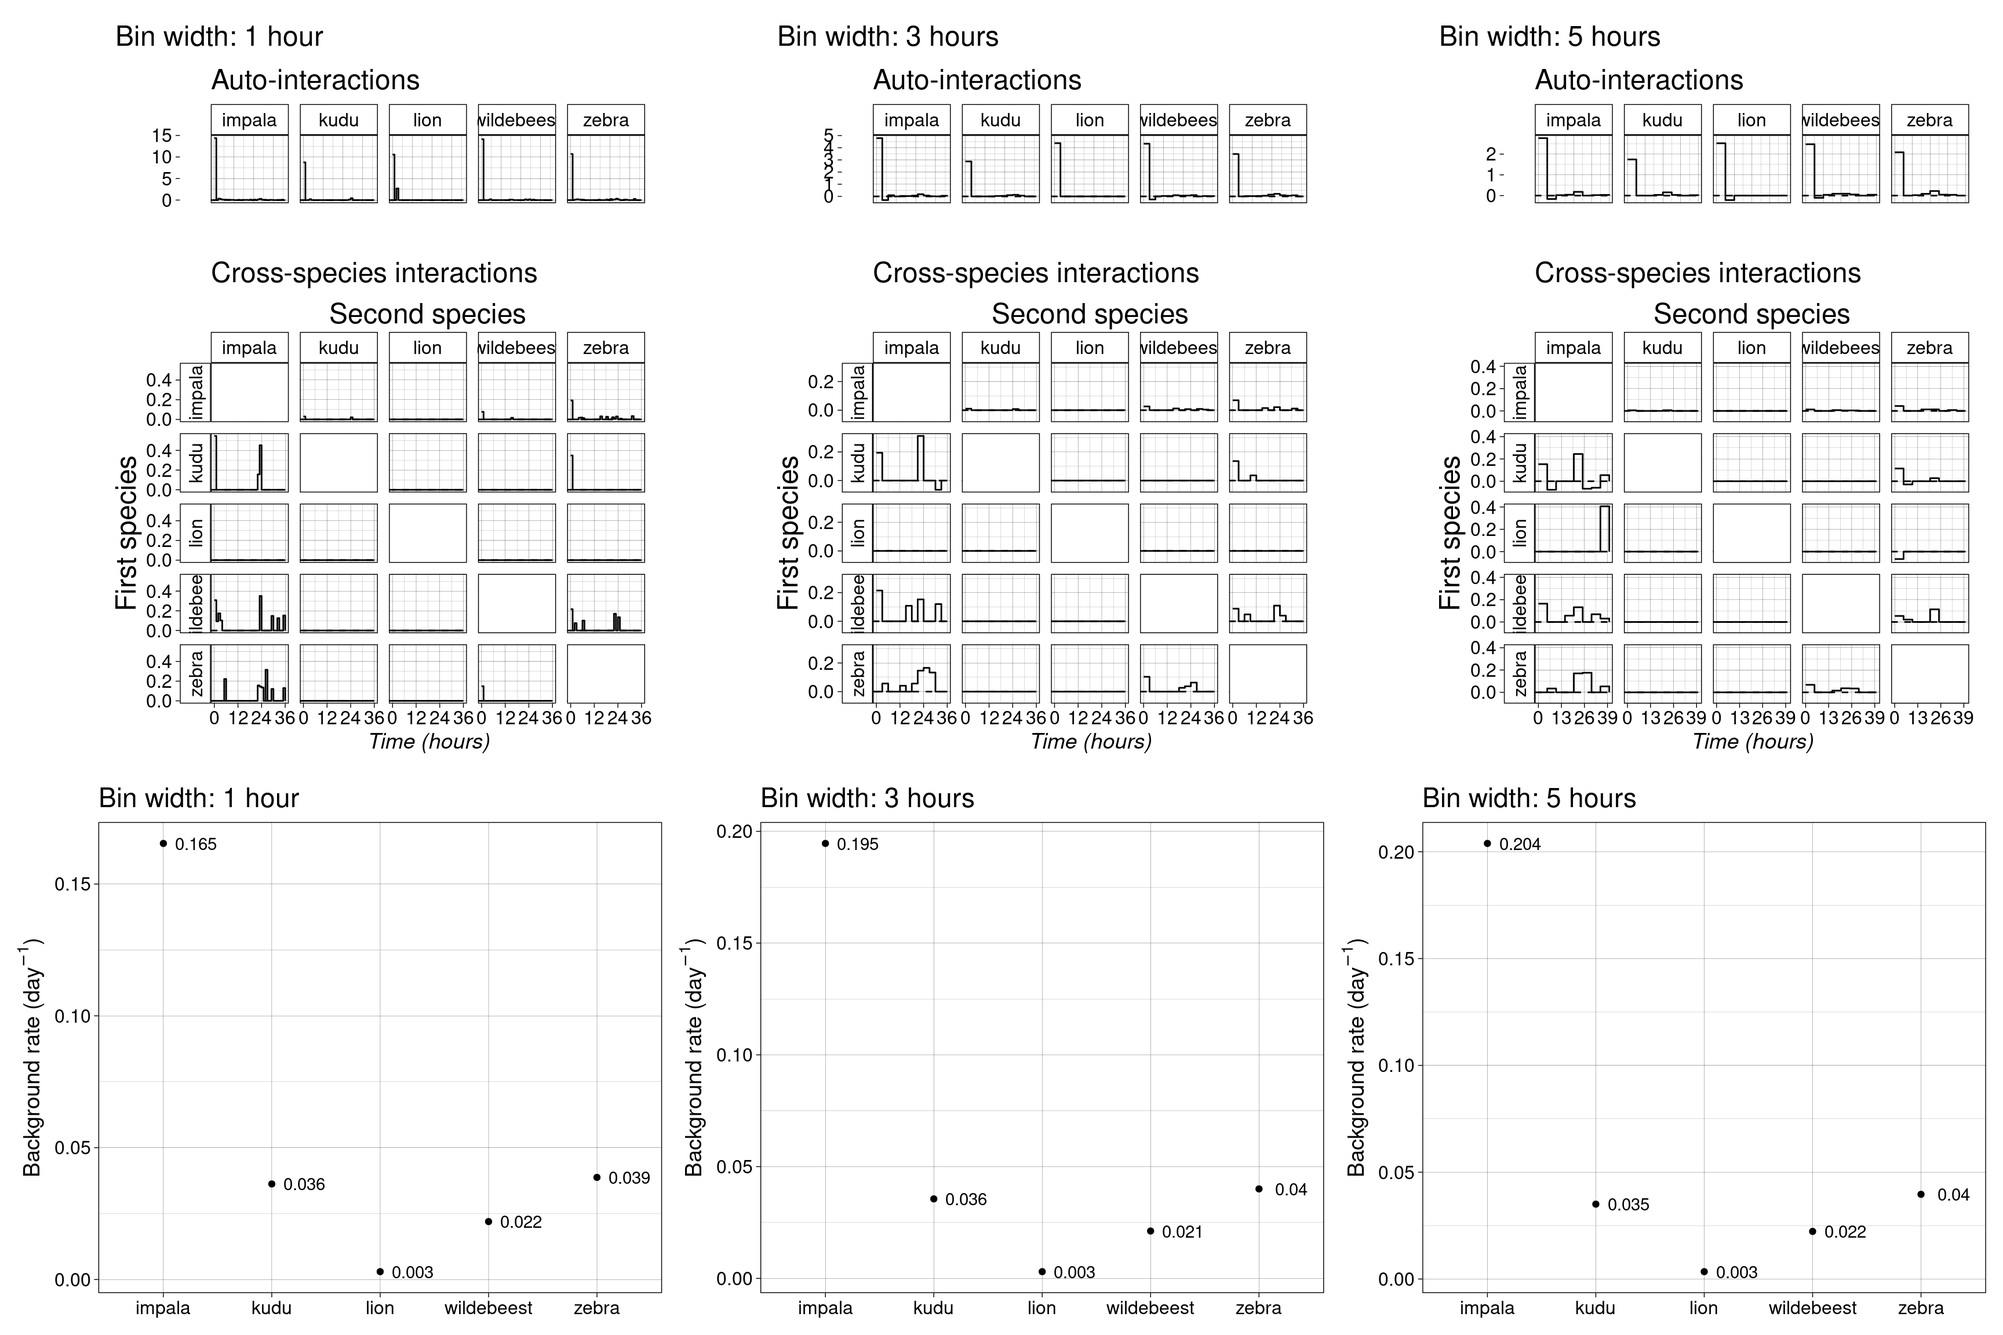
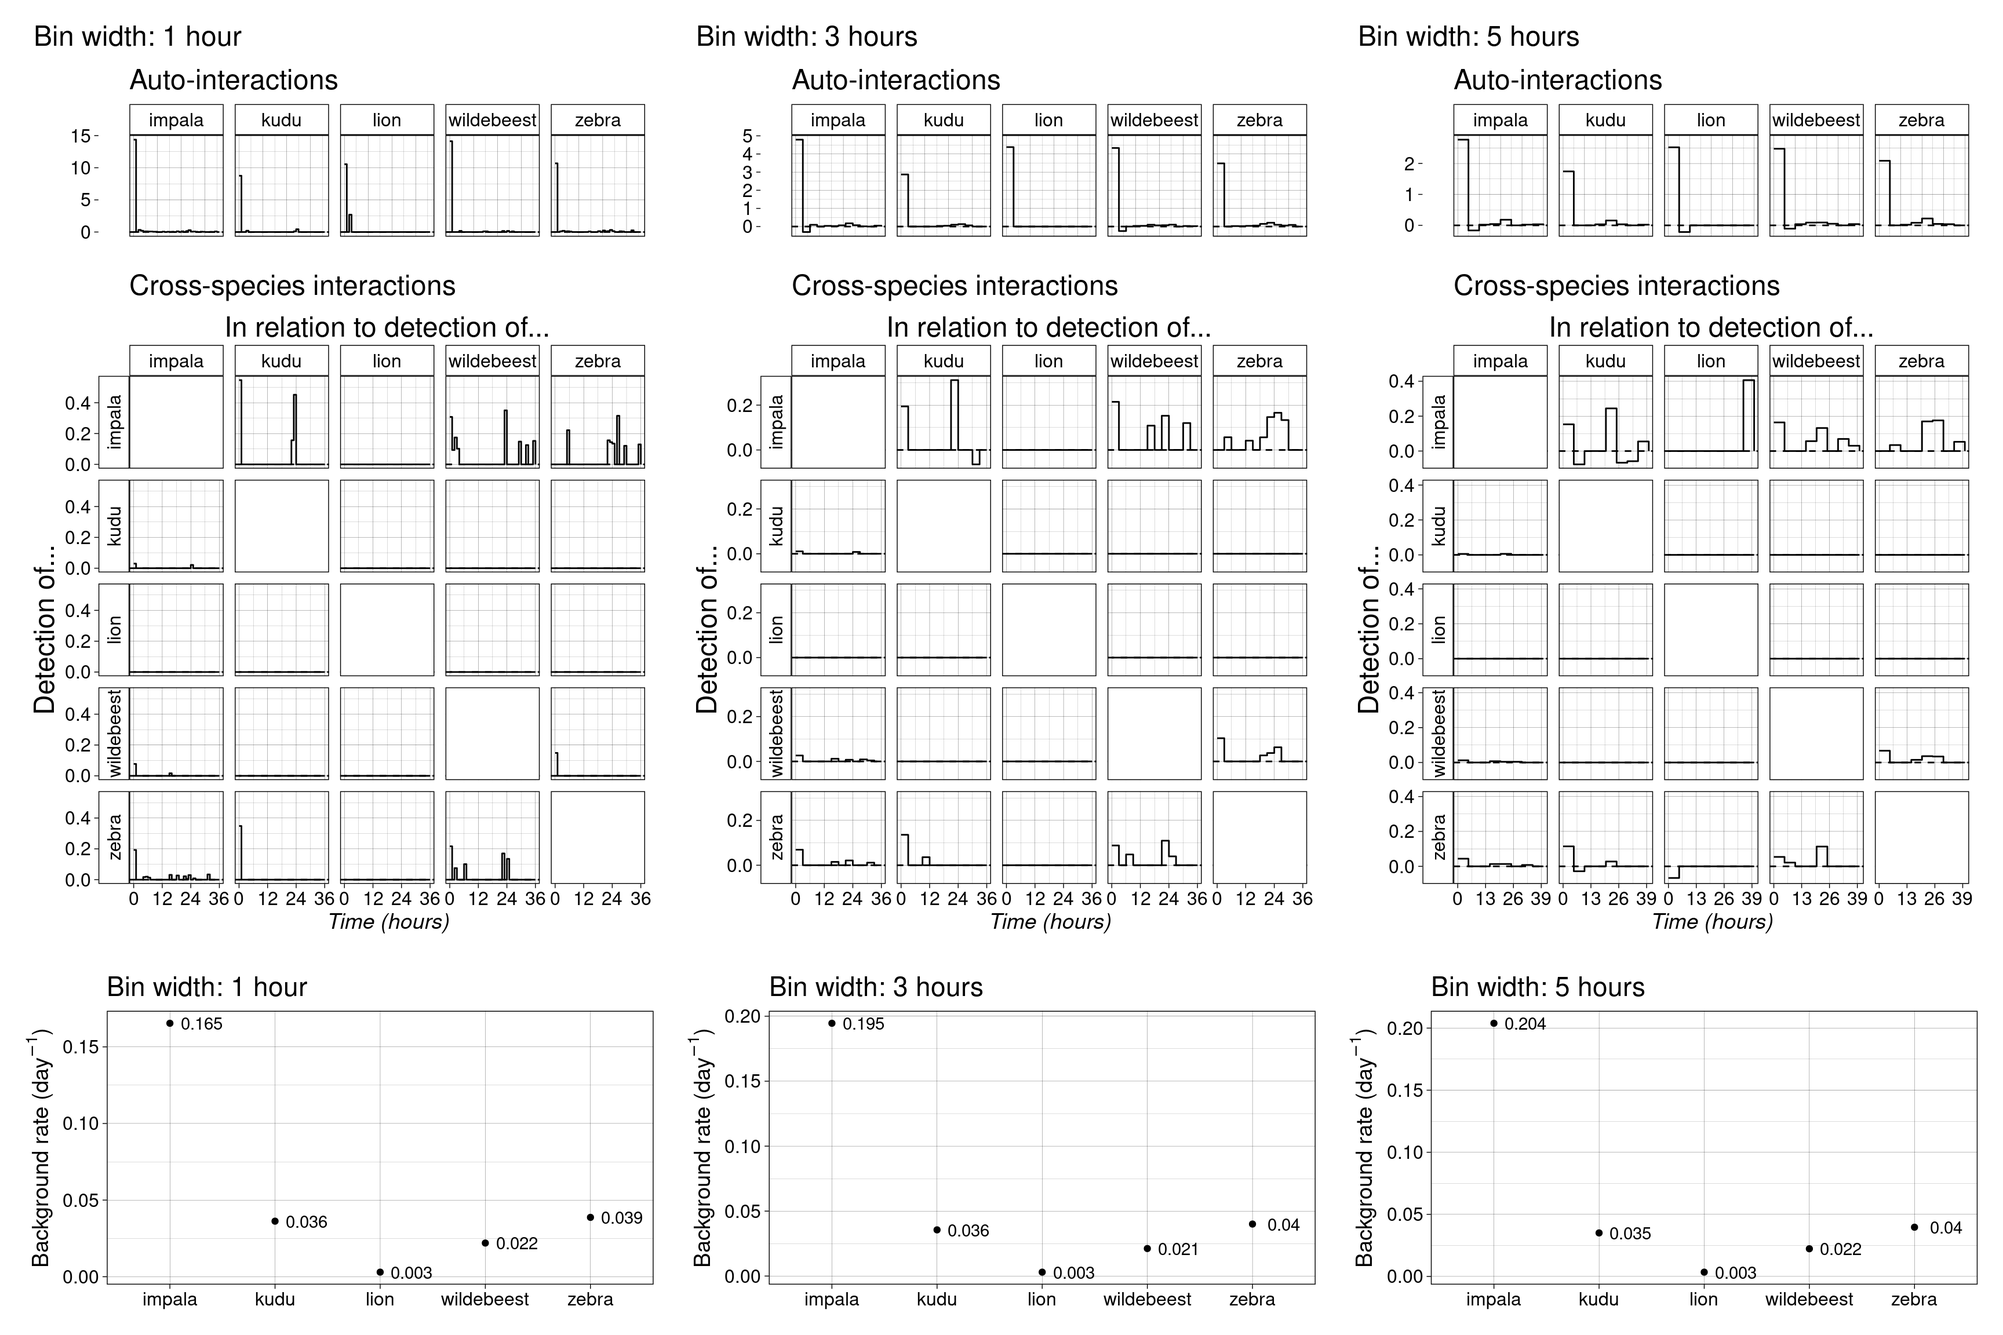
Better figures for appendix bins width

diff --git a/analyses/07_bins_width/bins_width.html b/analyses/07_bins_width/bins_width.html
@@ -132,7 +132,8 @@ code span.wa { color: #60a0b0; font-weight: bold; font-style: italic; } /* Warni
 <span id="cb1-3"><a href="#cb1-3" aria-hidden="true" tabindex="-1"></a></span>
 <span id="cb1-4"><a href="#cb1-4" aria-hidden="true" tabindex="-1"></a>packages <span class="ot">&lt;-</span> <span class="fu">c</span>(<span class="st">"here"</span>, <span class="st">"lubridate"</span>, <span class="st">"UnitEvents"</span>,</span>
 <span id="cb1-5"><a href="#cb1-5" aria-hidden="true" tabindex="-1"></a>              <span class="st">"ggplot2"</span>, <span class="st">"patchwork"</span>, <span class="st">"dplyr"</span>)</span>
-<span id="cb1-6"><a href="#cb1-6" aria-hidden="true" tabindex="-1"></a>base<span class="sc">::</span><span class="fu">lapply</span>(packages, require)</span></code><button title="Copy to Clipboard" class="code-copy-button"><i class="bi"></i></button></pre></div>
+<span id="cb1-6"><a href="#cb1-6" aria-hidden="true" tabindex="-1"></a>base<span class="sc">::</span><span class="fu">lapply</span>(packages, require)</span>
+<span id="cb1-7"><a href="#cb1-7" aria-hidden="true" tabindex="-1"></a>here<span class="sc">::</span><span class="fu">i_am</span>(<span class="st">"analyses/07_bins_width/bins_width.qmd"</span>)</span></code><button title="Copy to Clipboard" class="code-copy-button"><i class="bi"></i></button></pre></div>
 </div>
 </section>
 <section id="parameters" class="level2">
@@ -229,14 +230,15 @@ code span.wa { color: #60a0b0; font-weight: bold; font-style: italic; } /* Warni
 <span id="cb6-12"><a href="#cb6-12" aria-hidden="true" tabindex="-1"></a>                         <span class="at">textsize =</span> <span class="dv">12</span>,</span>
 <span id="cb6-13"><a href="#cb6-13" aria-hidden="true" tabindex="-1"></a>                         <span class="at">timestep =</span> <span class="fu">floor</span>((<span class="fu">max</span>(mod<span class="sc">$</span>time)<span class="sc">*</span><span class="dv">24</span>)<span class="sc">/</span><span class="dv">3</span>),</span>
 <span id="cb6-14"><a href="#cb6-14" aria-hidden="true" tabindex="-1"></a>                         <span class="at">ystep =</span> <span class="fl">0.2</span>,</span>
-<span id="cb6-15"><a href="#cb6-15" aria-hidden="true" tabindex="-1"></a>                         <span class="at">separate_self =</span> <span class="cn">TRUE</span>,</span>
-<span id="cb6-16"><a href="#cb6-16" aria-hidden="true" tabindex="-1"></a>                         <span class="at">title =</span> <span class="fu">paste</span>(<span class="st">"Bin width:"</span>,</span>
-<span id="cb6-17"><a href="#cb6-17" aria-hidden="true" tabindex="-1"></a>                                   bin,</span>
-<span id="cb6-18"><a href="#cb6-18" aria-hidden="true" tabindex="-1"></a>                                   <span class="fu">ifelse</span>(bin <span class="sc">==</span> <span class="st">"1"</span>,</span>
-<span id="cb6-19"><a href="#cb6-19" aria-hidden="true" tabindex="-1"></a>                                          <span class="st">"hour"</span>, <span class="st">"hours"</span>)))</span>
-<span id="cb6-20"><a href="#cb6-20" aria-hidden="true" tabindex="-1"></a>  </span>
-<span id="cb6-21"><a href="#cb6-21" aria-hidden="true" tabindex="-1"></a>  glist_inter[[i]] <span class="ot">&lt;-</span> <span class="fu">wrap_elements</span>(g)</span>
-<span id="cb6-22"><a href="#cb6-22" aria-hidden="true" tabindex="-1"></a>}</span></code><button title="Copy to Clipboard" class="code-copy-button"><i class="bi"></i></button></pre></div>
+<span id="cb6-15"><a href="#cb6-15" aria-hidden="true" tabindex="-1"></a>                         <span class="at">h =</span> <span class="dv">0</span>,</span>
+<span id="cb6-16"><a href="#cb6-16" aria-hidden="true" tabindex="-1"></a>                         <span class="at">separate_self =</span> <span class="cn">TRUE</span>,</span>
+<span id="cb6-17"><a href="#cb6-17" aria-hidden="true" tabindex="-1"></a>                         <span class="at">title =</span> <span class="fu">paste</span>(<span class="st">"Bin width:"</span>,</span>
+<span id="cb6-18"><a href="#cb6-18" aria-hidden="true" tabindex="-1"></a>                                   bin,</span>
+<span id="cb6-19"><a href="#cb6-19" aria-hidden="true" tabindex="-1"></a>                                   <span class="fu">ifelse</span>(bin <span class="sc">==</span> <span class="st">"1"</span>,</span>
+<span id="cb6-20"><a href="#cb6-20" aria-hidden="true" tabindex="-1"></a>                                          <span class="st">"hour"</span>, <span class="st">"hours"</span>)))</span>
+<span id="cb6-21"><a href="#cb6-21" aria-hidden="true" tabindex="-1"></a>  </span>
+<span id="cb6-22"><a href="#cb6-22" aria-hidden="true" tabindex="-1"></a>  glist_inter[[i]] <span class="ot">&lt;-</span> <span class="fu">wrap_elements</span>(g)</span>
+<span id="cb6-23"><a href="#cb6-23" aria-hidden="true" tabindex="-1"></a>}</span></code><button title="Copy to Clipboard" class="code-copy-button"><i class="bi"></i></button></pre></div>
 </div>
 <div class="cell">
 <div class="sourceCode cell-code" id="cb7"><pre class="sourceCode r code-with-copy"><code class="sourceCode r"><span id="cb7-1"><a href="#cb7-1" aria-hidden="true" tabindex="-1"></a><span class="co"># --- Initialize glist_bg</span></span>
@@ -256,7 +258,7 @@ code span.wa { color: #60a0b0; font-weight: bold; font-style: italic; } /* Warni
 <span id="cb7-15"><a href="#cb7-15" aria-hidden="true" tabindex="-1"></a>                                   <span class="fu">ifelse</span>(bin <span class="sc">==</span> <span class="st">"1"</span>,</span>
 <span id="cb7-16"><a href="#cb7-16" aria-hidden="true" tabindex="-1"></a>                                          <span class="st">"hour"</span>, <span class="st">"hours"</span>)))</span>
 <span id="cb7-17"><a href="#cb7-17" aria-hidden="true" tabindex="-1"></a>  </span>
-<span id="cb7-18"><a href="#cb7-18" aria-hidden="true" tabindex="-1"></a>  glist_bg[[i]] <span class="ot">&lt;-</span> g</span>
+<span id="cb7-18"><a href="#cb7-18" aria-hidden="true" tabindex="-1"></a>  glist_bg[[i]] <span class="ot">&lt;-</span> <span class="fu">wrap_elements</span>(g)</span>
 <span id="cb7-19"><a href="#cb7-19" aria-hidden="true" tabindex="-1"></a></span>
 <span id="cb7-20"><a href="#cb7-20" aria-hidden="true" tabindex="-1"></a>}</span></code><button title="Copy to Clipboard" class="code-copy-button"><i class="bi"></i></button></pre></div>
 </div>
@@ -282,39 +284,49 @@ code span.wa { color: #60a0b0; font-weight: bold; font-style: italic; } /* Warni
 <span id="cb8-2"><a href="#cb8-2" aria-hidden="true" tabindex="-1"></a><span class="fu">wrap_plots</span>(<span class="fu">c</span>(glist_inter[smaller_names],</span>
 <span id="cb8-3"><a href="#cb8-3" aria-hidden="true" tabindex="-1"></a>             glist_bg[smaller_names]), </span>
 <span id="cb8-4"><a href="#cb8-4" aria-hidden="true" tabindex="-1"></a>           <span class="at">nrow =</span> <span class="dv">2</span>, <span class="at">byrow =</span> <span class="cn">TRUE</span>,</span>
-<span id="cb8-5"><a href="#cb8-5" aria-hidden="true" tabindex="-1"></a>           <span class="at">heights =</span> <span class="fu">c</span>(<span class="dv">8</span>, <span class="dv">5</span>))</span></code><button title="Copy to Clipboard" class="code-copy-button"><i class="bi"></i></button></pre></div>
+<span id="cb8-5"><a href="#cb8-5" aria-hidden="true" tabindex="-1"></a>           <span class="at">heights =</span> <span class="fu">c</span>(<span class="dv">8</span>, <span class="dv">3</span>))</span></code><button title="Copy to Clipboard" class="code-copy-button"><i class="bi"></i></button></pre></div>
 <div class="cell-output-display">
 <p><img src="bins_width_files/figure-html/unnamed-chunk-3-1.png" class="img-fluid" width="1728"></p>
 </div>
+<div class="sourceCode cell-code" id="cb9"><pre class="sourceCode r code-with-copy"><code class="sourceCode r"><span id="cb9-1"><a href="#cb9-1" aria-hidden="true" tabindex="-1"></a><span class="co"># Export plot</span></span>
+<span id="cb9-2"><a href="#cb9-2" aria-hidden="true" tabindex="-1"></a><span class="fu">ggsave</span>(<span class="fu">file.path</span>(figures_path, <span class="st">"smaller_bins.jpeg"</span>),</span>
+<span id="cb9-3"><a href="#cb9-3" aria-hidden="true" tabindex="-1"></a>       <span class="at">bg =</span> <span class="st">"white"</span>,</span>
+<span id="cb9-4"><a href="#cb9-4" aria-hidden="true" tabindex="-1"></a>       <span class="at">width =</span> <span class="dv">22</span>, <span class="at">height =</span> <span class="dv">13</span>,</span>
+<span id="cb9-5"><a href="#cb9-5" aria-hidden="true" tabindex="-1"></a>       <span class="at">dpi =</span> <span class="dv">300</span>)</span></code><button title="Copy to Clipboard" class="code-copy-button"><i class="bi"></i></button></pre></div>
 </div>
 <p>The inferred interactions for the 3 tested bin widths above are pretty similar. Moreover, all nonzero interactions are the same as in the 6-hours bins version. However, some interactions present in the 6-hours bins version are missed, possibly due to lower power. The inferred background rates have similar numerical values than those inferred with 6 hours bins, and they are pretty stable except for impala. However, their relative strength is the same.</p>
 <p>Below are the values for bins bigger than 6 hours:</p>
 <div class="cell">
-<div class="sourceCode cell-code" id="cb9"><pre class="sourceCode r code-with-copy"><code class="sourceCode r"><span id="cb9-1"><a href="#cb9-1" aria-hidden="true" tabindex="-1"></a>bigger_names <span class="ot">&lt;-</span> <span class="fu">as.character</span>(bigger)</span>
-<span id="cb9-2"><a href="#cb9-2" aria-hidden="true" tabindex="-1"></a><span class="fu">wrap_plots</span>(<span class="fu">c</span>(glist_inter[bigger_names],</span>
-<span id="cb9-3"><a href="#cb9-3" aria-hidden="true" tabindex="-1"></a>             glist_bg[bigger_names]), </span>
-<span id="cb9-4"><a href="#cb9-4" aria-hidden="true" tabindex="-1"></a>           <span class="at">nrow =</span> <span class="dv">2</span>, <span class="at">byrow =</span> <span class="cn">TRUE</span>,</span>
-<span id="cb9-5"><a href="#cb9-5" aria-hidden="true" tabindex="-1"></a>           <span class="at">heights =</span> <span class="fu">c</span>(<span class="dv">8</span>, <span class="dv">5</span>))</span></code><button title="Copy to Clipboard" class="code-copy-button"><i class="bi"></i></button></pre></div>
+<div class="sourceCode cell-code" id="cb10"><pre class="sourceCode r code-with-copy"><code class="sourceCode r"><span id="cb10-1"><a href="#cb10-1" aria-hidden="true" tabindex="-1"></a>bigger_names <span class="ot">&lt;-</span> <span class="fu">as.character</span>(bigger)</span>
+<span id="cb10-2"><a href="#cb10-2" aria-hidden="true" tabindex="-1"></a><span class="fu">wrap_plots</span>(<span class="fu">c</span>(glist_inter[bigger_names],</span>
+<span id="cb10-3"><a href="#cb10-3" aria-hidden="true" tabindex="-1"></a>             glist_bg[bigger_names]), </span>
+<span id="cb10-4"><a href="#cb10-4" aria-hidden="true" tabindex="-1"></a>           <span class="at">nrow =</span> <span class="dv">2</span>, <span class="at">byrow =</span> <span class="cn">TRUE</span>,</span>
+<span id="cb10-5"><a href="#cb10-5" aria-hidden="true" tabindex="-1"></a>           <span class="at">heights =</span> <span class="fu">c</span>(<span class="dv">8</span>, <span class="dv">3</span>))</span></code><button title="Copy to Clipboard" class="code-copy-button"><i class="bi"></i></button></pre></div>
 <div class="cell-output-display">
 <p><img src="bins_width_files/figure-html/unnamed-chunk-4-1.png" class="img-fluid" width="1728"></p>
 </div>
+<div class="sourceCode cell-code" id="cb11"><pre class="sourceCode r code-with-copy"><code class="sourceCode r"><span id="cb11-1"><a href="#cb11-1" aria-hidden="true" tabindex="-1"></a><span class="co"># Export plot</span></span>
+<span id="cb11-2"><a href="#cb11-2" aria-hidden="true" tabindex="-1"></a><span class="fu">ggsave</span>(<span class="fu">file.path</span>(figures_path, <span class="st">"bigger_bins.jpeg"</span>),</span>
+<span id="cb11-3"><a href="#cb11-3" aria-hidden="true" tabindex="-1"></a>       <span class="at">bg =</span> <span class="st">"white"</span>,</span>
+<span id="cb11-4"><a href="#cb11-4" aria-hidden="true" tabindex="-1"></a>       <span class="at">width =</span> <span class="dv">22</span>, <span class="at">height =</span> <span class="dv">13</span>,</span>
+<span id="cb11-5"><a href="#cb11-5" aria-hidden="true" tabindex="-1"></a>       <span class="at">dpi =</span> <span class="dv">300</span>)</span></code><button title="Copy to Clipboard" class="code-copy-button"><i class="bi"></i></button></pre></div>
 </div>
 <p>Again, the inferred interactions above are pretty similar for the different bin widths. And all nonzero interactions are the same as in the 6-hours bins version, except an attraction of impala by lion that appears after 36 hours with 7 and 11 hours bins. No interactions that appeared in the 6 hours inference are missed. The inferred background rates are similar to those inferred with 6 hours bins.</p>
 <p>Below are the values for bins close to 6 hours:</p>
 <div class="cell">
-<div class="sourceCode cell-code" id="cb10"><pre class="sourceCode r code-with-copy"><code class="sourceCode r"><span id="cb10-1"><a href="#cb10-1" aria-hidden="true" tabindex="-1"></a>close_names <span class="ot">&lt;-</span> <span class="fu">as.character</span>(close)</span>
-<span id="cb10-2"><a href="#cb10-2" aria-hidden="true" tabindex="-1"></a><span class="fu">wrap_plots</span>(<span class="fu">c</span>(glist_inter[close_names],</span>
-<span id="cb10-3"><a href="#cb10-3" aria-hidden="true" tabindex="-1"></a>             glist_bg[close_names]), </span>
-<span id="cb10-4"><a href="#cb10-4" aria-hidden="true" tabindex="-1"></a>           <span class="at">nrow =</span> <span class="dv">2</span>, <span class="at">byrow =</span> <span class="cn">TRUE</span>,</span>
-<span id="cb10-5"><a href="#cb10-5" aria-hidden="true" tabindex="-1"></a>           <span class="at">heights =</span> <span class="fu">c</span>(<span class="dv">8</span>, <span class="dv">5</span>))</span></code><button title="Copy to Clipboard" class="code-copy-button"><i class="bi"></i></button></pre></div>
+<div class="sourceCode cell-code" id="cb12"><pre class="sourceCode r code-with-copy"><code class="sourceCode r"><span id="cb12-1"><a href="#cb12-1" aria-hidden="true" tabindex="-1"></a>close_names <span class="ot">&lt;-</span> <span class="fu">as.character</span>(close)</span>
+<span id="cb12-2"><a href="#cb12-2" aria-hidden="true" tabindex="-1"></a><span class="fu">wrap_plots</span>(<span class="fu">c</span>(glist_inter[close_names],</span>
+<span id="cb12-3"><a href="#cb12-3" aria-hidden="true" tabindex="-1"></a>             glist_bg[close_names]), </span>
+<span id="cb12-4"><a href="#cb12-4" aria-hidden="true" tabindex="-1"></a>           <span class="at">nrow =</span> <span class="dv">2</span>, <span class="at">byrow =</span> <span class="cn">TRUE</span>,</span>
+<span id="cb12-5"><a href="#cb12-5" aria-hidden="true" tabindex="-1"></a>           <span class="at">heights =</span> <span class="fu">c</span>(<span class="dv">8</span>, <span class="dv">3</span>))</span></code><button title="Copy to Clipboard" class="code-copy-button"><i class="bi"></i></button></pre></div>
 <div class="cell-output-display">
 <p><img src="bins_width_files/figure-html/unnamed-chunk-5-1.png" class="img-fluid" width="2304"></p>
 </div>
-<div class="sourceCode cell-code" id="cb11"><pre class="sourceCode r code-with-copy"><code class="sourceCode r"><span id="cb11-1"><a href="#cb11-1" aria-hidden="true" tabindex="-1"></a><span class="co"># Export plot</span></span>
-<span id="cb11-2"><a href="#cb11-2" aria-hidden="true" tabindex="-1"></a><span class="fu">ggsave</span>(<span class="fu">file.path</span>(figures_path, <span class="st">"close_bins.jpeg"</span>),</span>
-<span id="cb11-3"><a href="#cb11-3" aria-hidden="true" tabindex="-1"></a>       <span class="at">bg =</span> <span class="st">"white"</span>,</span>
-<span id="cb11-4"><a href="#cb11-4" aria-hidden="true" tabindex="-1"></a>       <span class="at">width =</span> <span class="dv">24</span>, <span class="at">height =</span> <span class="dv">12</span>,</span>
-<span id="cb11-5"><a href="#cb11-5" aria-hidden="true" tabindex="-1"></a>       <span class="at">dpi =</span> <span class="dv">600</span>)</span></code><button title="Copy to Clipboard" class="code-copy-button"><i class="bi"></i></button></pre></div>
+<div class="sourceCode cell-code" id="cb13"><pre class="sourceCode r code-with-copy"><code class="sourceCode r"><span id="cb13-1"><a href="#cb13-1" aria-hidden="true" tabindex="-1"></a><span class="co"># Export plot</span></span>
+<span id="cb13-2"><a href="#cb13-2" aria-hidden="true" tabindex="-1"></a><span class="fu">ggsave</span>(<span class="fu">file.path</span>(figures_path, <span class="st">"close_bins.jpeg"</span>),</span>
+<span id="cb13-3"><a href="#cb13-3" aria-hidden="true" tabindex="-1"></a>       <span class="at">bg =</span> <span class="st">"white"</span>,</span>
+<span id="cb13-4"><a href="#cb13-4" aria-hidden="true" tabindex="-1"></a>       <span class="at">width =</span> <span class="dv">22</span>, <span class="at">height =</span> <span class="dv">13</span>,</span>
+<span id="cb13-5"><a href="#cb13-5" aria-hidden="true" tabindex="-1"></a>       <span class="at">dpi =</span> <span class="dv">300</span>)</span></code><button title="Copy to Clipboard" class="code-copy-button"><i class="bi"></i></button></pre></div>
 </div>
 <p>Again the interactions are similar to those of the 6 hours bins. We can notice that an attraction appears between lion and impala between 30 and 36 hours of delay with impala attracted by lion, which is not the case in the 6 hours bins case. This might be due to the fact that this attraction is at the edge of the 36 hours of maximal delay imposed in the original setting, whereas here the time bins extend further due to the function support extending after 36 hours (this was necessary because of the discretized bins). The inferred background rates are similar to those inferred with 6 hours bins.</p>
 </section>
